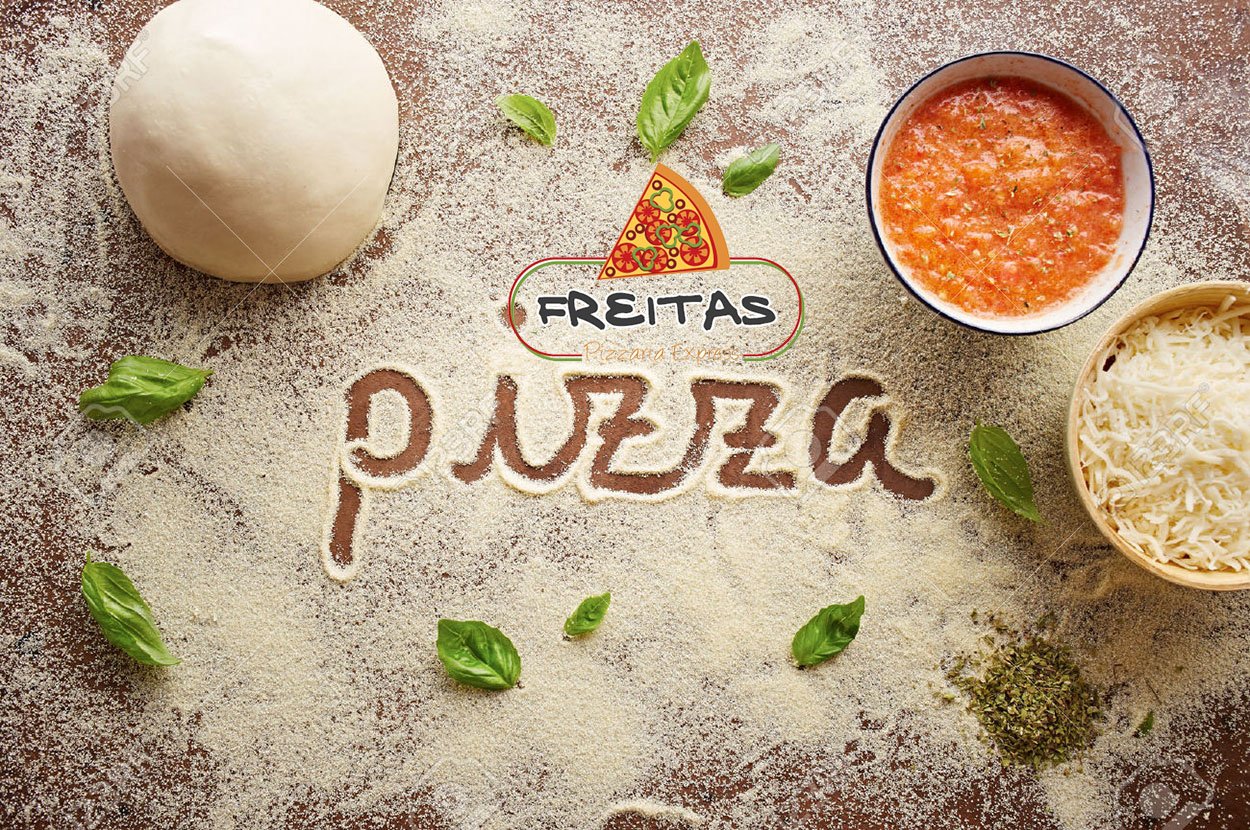
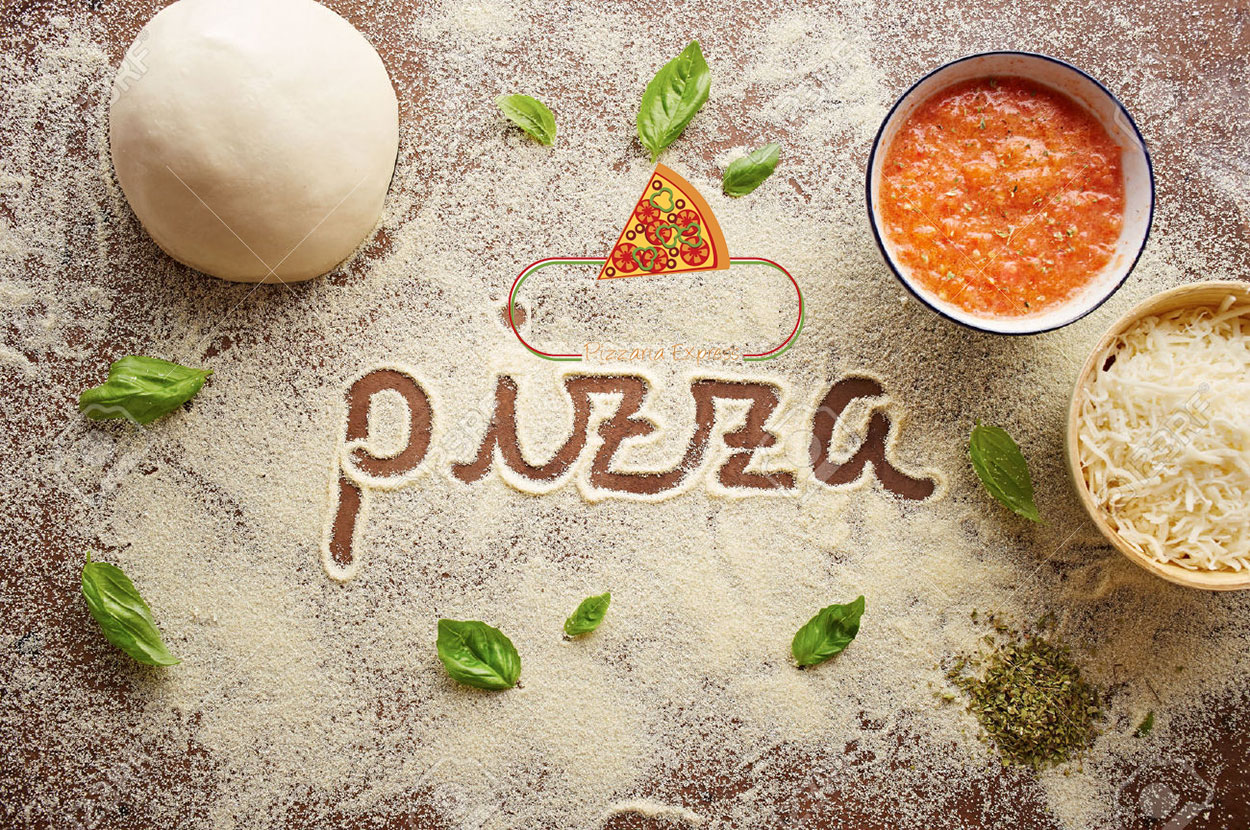
Screen Background Main menu form implemented

Changed region(s): [[0.4056, 0.3313, 0.624, 0.4217]]

diff --git a/PizzeriaSystem22/src/Utility/ScreenBackground.java b/PizzeriaSystem22/src/Utility/ScreenBackground.java
@@ -1,0 +1,29 @@
+/*
+ * To change this license header, choose License Headers in Project Properties.
+ * To change this template file, choose Tools | Templates
+ * and open the template in the editor.
+ */
+package Utility;
+
+import java.awt.Graphics;
+import java.awt.Image;
+import javax.swing.ImageIcon;
+import javax.swing.JDesktopPane;
+
+/**
+ *
+ * @author fabio
+ */
+public class ScreenBackground extends JDesktopPane{
+    private Image img;
+    
+    public ScreenBackground (String img) {
+        this.img = new ImageIcon(img).getImage();
+    }  
+    
+    @Override
+    public void paintComponent(Graphics g) {
+        //Responsive screen
+        g.drawImage(img, 0, 0, getWidth(), getHeight(), this);
+    } 
+}

diff --git a/PizzeriaSystem22/src/GUI/Main.java b/PizzeriaSystem22/src/GUI/Main.java
@@ -5,6 +5,8 @@
  */
 package GUI;
 
+import Utility.ScreenBackground;
+import java.awt.GridLayout;
 import javax.swing.JFrame;
 
 /**
@@ -13,12 +15,17 @@ import javax.swing.JFrame;
  */
 public class Main extends javax.swing.JFrame {
 
-    /**
-     * Creates new form Main
-     */
+    ScreenBackground scrt;
+    
     public Main() {
         initComponents();
         setExtendedState(JFrame.MAXIMIZED_BOTH);
+        
+        setLayout(new GridLayout());
+        
+        scrt = new ScreenBackground("img/pizza-fundo.jpg");
+        getContentPane().add(scrt);
+        
     }
 
     /**
